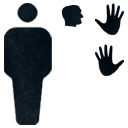
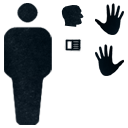
Implement ID card slot and ID card description that states the owner and his job in preparation for identity system

Changed region(s): [[0.5, 0.2812, 0.6562, 0.4062]]

diff --git a/Barotrauma/BarotraumaClient/Source/Items/CharacterInventory.cs b/Barotrauma/BarotraumaClient/Source/Items/CharacterInventory.cs
@@ -39,7 +39,7 @@ namespace Barotrauma
                     case 3:
                     case 4:
                         SlotPositions[i] = new Vector2(
-                            spacing * 2 + rectWidth + (spacing + rectWidth) * (i - 2),
+                            spacing * 2 + rectWidth + (spacing + rectWidth) * (i - 1),
                             GameMain.GraphicsHeight - (spacing + rectHeight) * 3);
 
                         useOnSelfButton[i - 3] = new GUIButton(
@@ -52,7 +52,15 @@ namespace Barotrauma
 
 
                         break;
+                    //face
                     case 5:
+                        SlotPositions[i] = new Vector2(
+                            spacing * 2 + rectWidth + (spacing + rectWidth) * (i - 5),
+                            GameMain.GraphicsHeight - (spacing + rectHeight) * 3);
+
+                        break;
+                    //id card
+                    case 6:
                         SlotPositions[i] = new Vector2(
                             spacing * 2 + rectWidth + (spacing + rectWidth) * (i - 5),
                             GameMain.GraphicsHeight - (spacing + rectHeight) * 3);
@@ -60,8 +68,8 @@ namespace Barotrauma
                         break;
                     default:
                         SlotPositions[i] = new Vector2(
-                            spacing * 2 + rectWidth + (spacing + rectWidth) * ((i - 6) % 5),
-                            GameMain.GraphicsHeight - (spacing + rectHeight) * ((i > 10) ? 2 : 1));
+                            spacing * 2 + rectWidth + (spacing + rectWidth) * ((i - 7) % 5),
+                            GameMain.GraphicsHeight - (spacing + rectHeight) * ((i > 11) ? 2 : 1));
                         break;
                 }
             }
@@ -245,6 +253,13 @@ namespace Barotrauma
                     spriteBatch.Draw(icons, new Vector2(slotRect.Center.X, slotRect.Center.Y),
                         new Rectangle(57, 0, 31, 32), Color.White * 0.7f, 0.0f,
                         new Vector2(15.0f, 16.0f), Vector2.One,
+                        SpriteEffects.None, 0.1f);
+                }
+                else if (i == 6)
+                {
+                    spriteBatch.Draw(icons, new Vector2(slotRect.Center.X, slotRect.Center.Y),
+                        new Rectangle(62, 36, 22, 18), Color.White * 0.7f, 0.0f,
+                        new Vector2(11.0f, 9.0f), Vector2.One,
                         SpriteEffects.None, 0.1f);
                 }
             }

diff --git a/Barotrauma/BarotraumaShared/Source/Items/Item.cs b/Barotrauma/BarotraumaShared/Source/Items/Item.cs
@@ -119,9 +119,11 @@ namespace Barotrauma
             get { return prefab.Name; }
         }
 
+        private string description;
         public string Description
         {
-            get { return prefab.Description; }
+            get { return description == null ? prefab.Description : description; }
+            set { description = value; }
         }
 
         public float ImpactTolerance
@@ -1458,6 +1460,7 @@ namespace Barotrauma
             if (GameMain.Server == null) return;
             
             msg.Write(Prefab.Name);
+            msg.Write(Description);
             msg.Write(ID);
 
             if (ParentInventory == null || ParentInventory.Owner == null)
@@ -1476,7 +1479,8 @@ namespace Barotrauma
                 msg.Write(index < 0 ? (byte)255 : (byte)index);
             }
 
-            if (Name == "ID Card") msg.Write(Tags);            
+            //TODO: See if tags are different from their prefab before sending 'em
+            msg.Write(Tags);            
         }
 
         public static Item ReadSpawnData(NetBuffer msg, bool spawn = true)
@@ -1484,6 +1488,7 @@ namespace Barotrauma
             if (GameMain.Server != null) return null;
 
             string itemName     = msg.ReadString();
+            string itemDesc     = msg.ReadString();
             ushort itemId       = msg.ReadUInt16();
 
             ushort inventoryId  = msg.ReadUInt16();
@@ -1507,11 +1512,7 @@ namespace Barotrauma
                 }
             }
 
-            string tags = "";
-            if (itemName == "ID Card")
-            {
-                tags = msg.ReadString();
-            }
+            string tags = msg.ReadString();
 
             if (!spawn) return null;
 
@@ -1541,6 +1542,7 @@ namespace Barotrauma
 
             var item = new Item(itemPrefab, pos, sub);
 
+            item.Description = itemDesc;
             item.ID = itemId;
             if (sub != null)
             {

diff --git a/Barotrauma/BarotraumaShared/Source/Items/CharacterInventory.cs b/Barotrauma/BarotraumaShared/Source/Items/CharacterInventory.cs
@@ -10,7 +10,7 @@ namespace Barotrauma
     [Flags]
     public enum InvSlotType
     {
-        None = 0, Any = 1, RightHand = 2, LeftHand = 4, Head = 8, Torso = 16, Legs = 32, Face=64
+        None = 0, Any = 1, RightHand = 2, LeftHand = 4, Head = 8, Torso = 16, Legs = 32, Face=64, Card=128
     };
 
     partial class CharacterInventory : Inventory
@@ -18,7 +18,7 @@ namespace Barotrauma
         private Character character;
 
         public static InvSlotType[] limbSlots = new InvSlotType[] { 
-            InvSlotType.Head, InvSlotType.Torso, InvSlotType.Legs, InvSlotType.LeftHand, InvSlotType.RightHand, InvSlotType.Face,
+            InvSlotType.Head, InvSlotType.Torso, InvSlotType.Legs, InvSlotType.LeftHand, InvSlotType.RightHand, InvSlotType.Face, InvSlotType.Card,
             InvSlotType.Any, InvSlotType.Any, InvSlotType.Any, InvSlotType.Any, InvSlotType.Any,
             InvSlotType.Any, InvSlotType.Any, InvSlotType.Any, InvSlotType.Any, InvSlotType.Any};
         

diff --git a/Barotrauma/BarotraumaShared/Source/Characters/Character.cs b/Barotrauma/BarotraumaShared/Source/Characters/Character.cs
@@ -591,7 +591,7 @@ namespace Barotrauma
             {
                 AnimController = new HumanoidAnimController(this, doc.Root.Element("ragdoll"));
                 AnimController.TargetDir = Direction.Right;
-                inventory = new CharacterInventory(16, this);
+                inventory = new CharacterInventory(17, this);
             }
             else
             {

diff --git a/Barotrauma/BarotraumaShared/Source/Characters/Jobs/Job.cs b/Barotrauma/BarotraumaShared/Source/Characters/Jobs/Job.cs
@@ -130,6 +130,7 @@ namespace Barotrauma
                 {
                     item.AddTag(s);
                 }
+                item.Description = "This belongs to " + character.Name + ", the " + Name + ".";
             }
             
             if (parentItem != null) parentItem.Combine(item);
